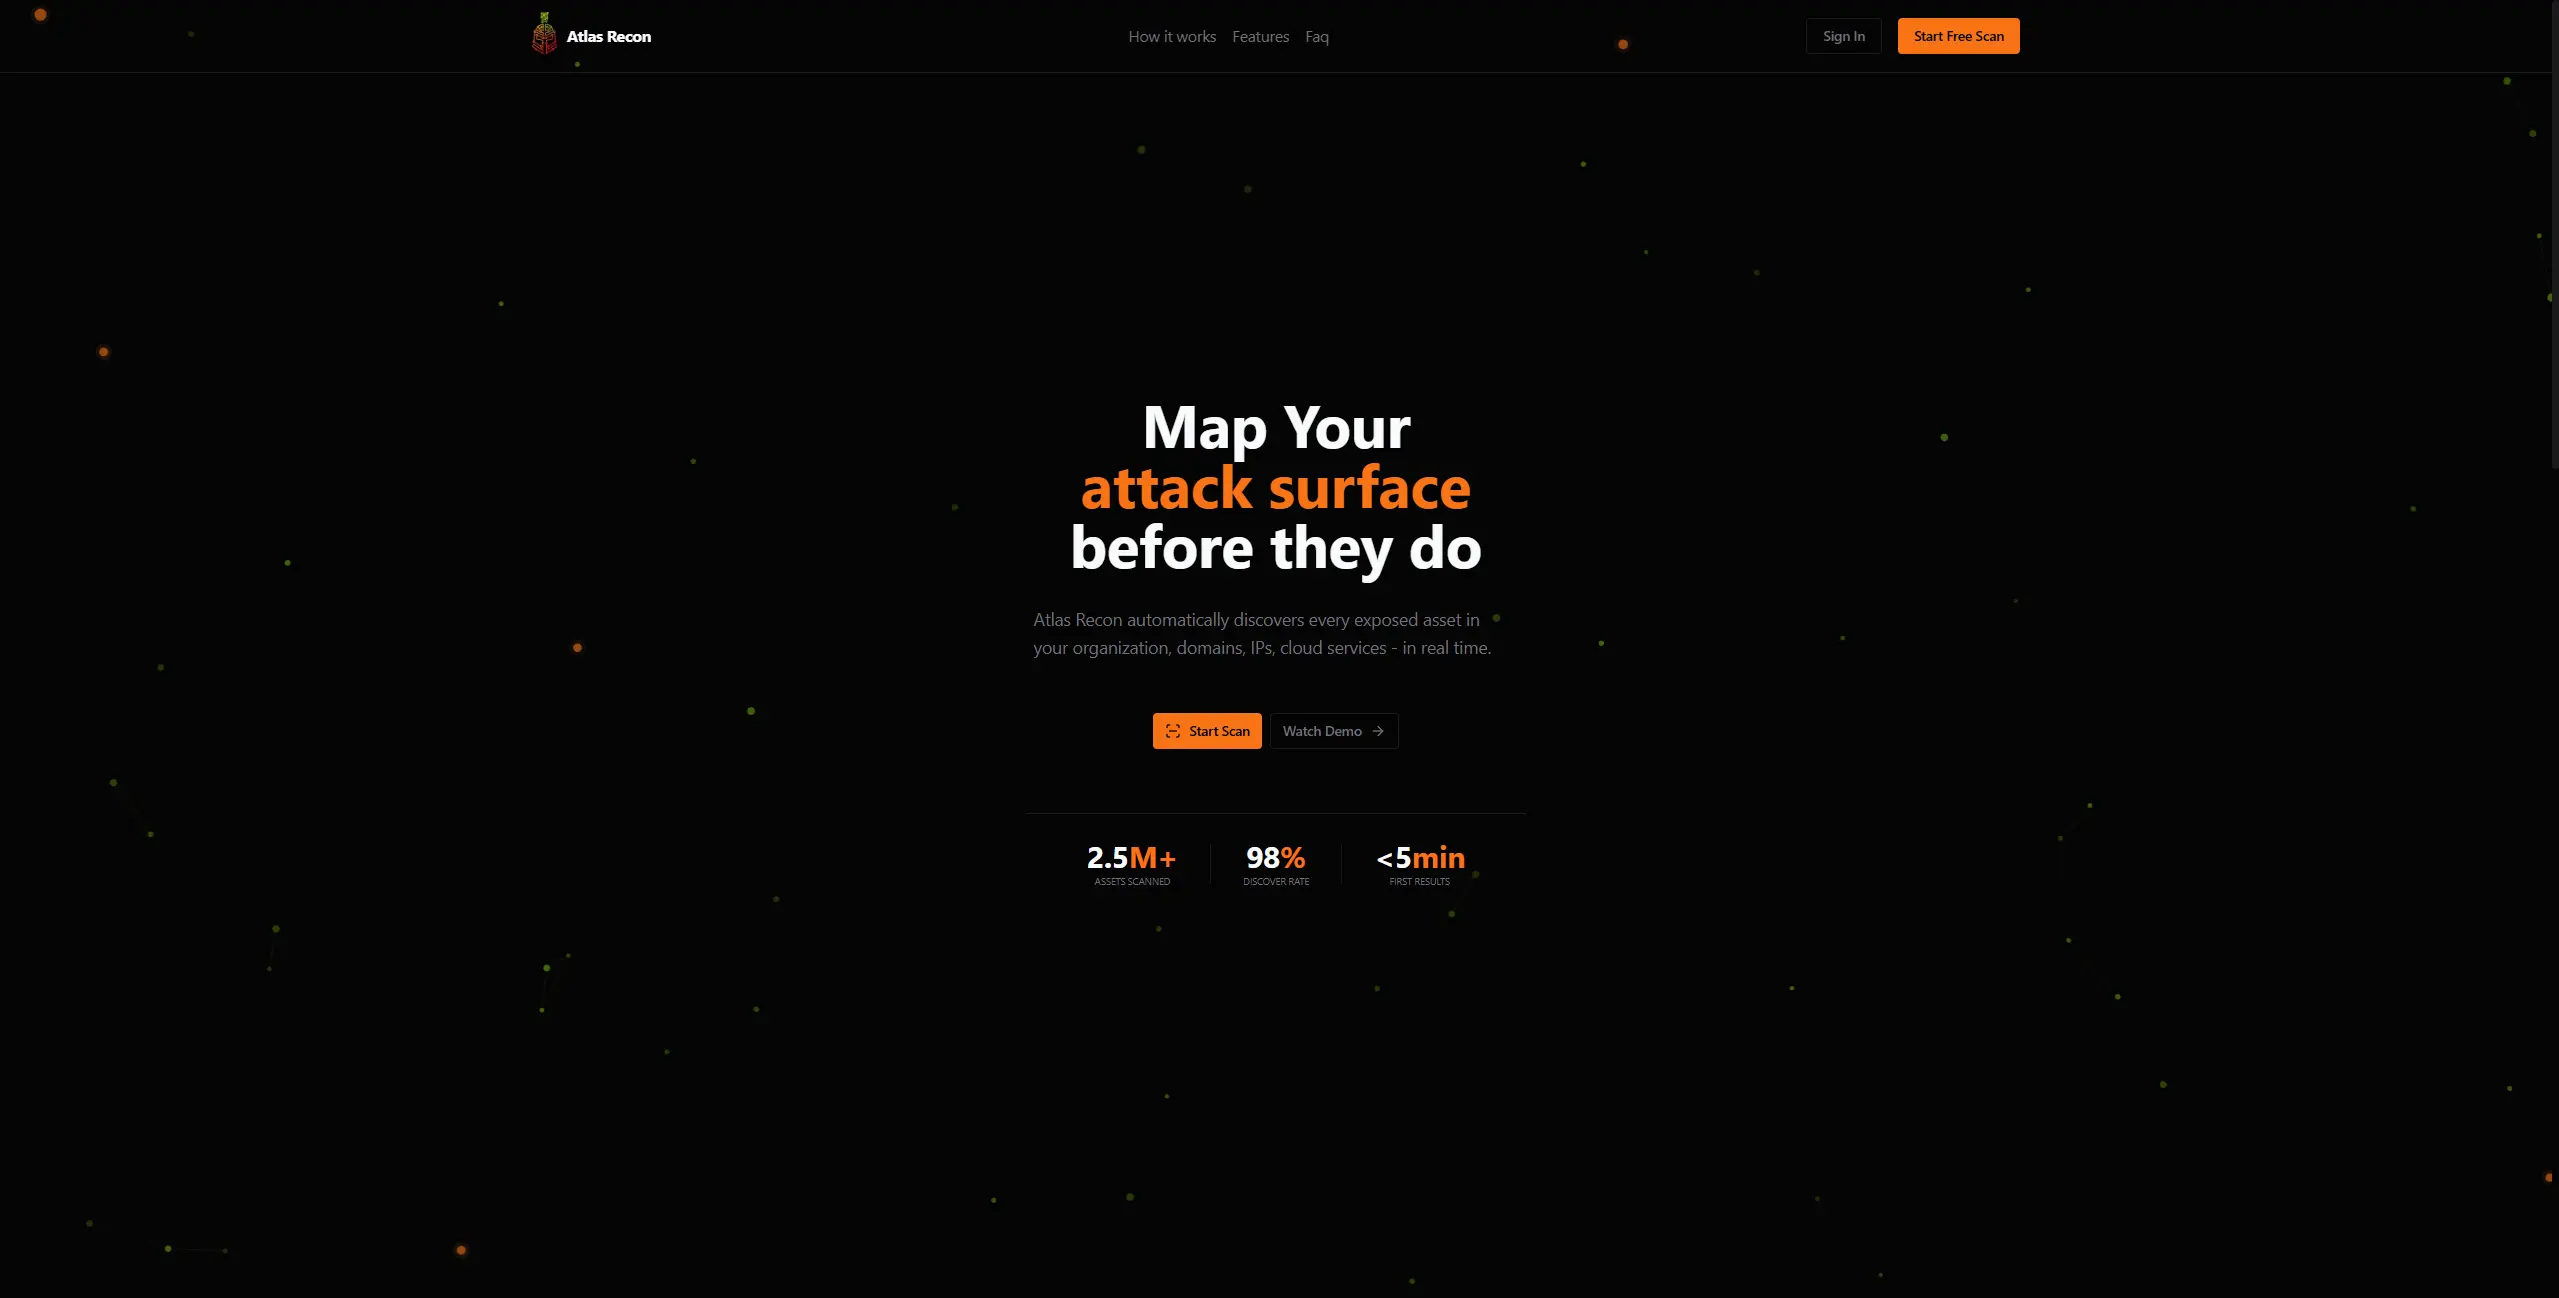
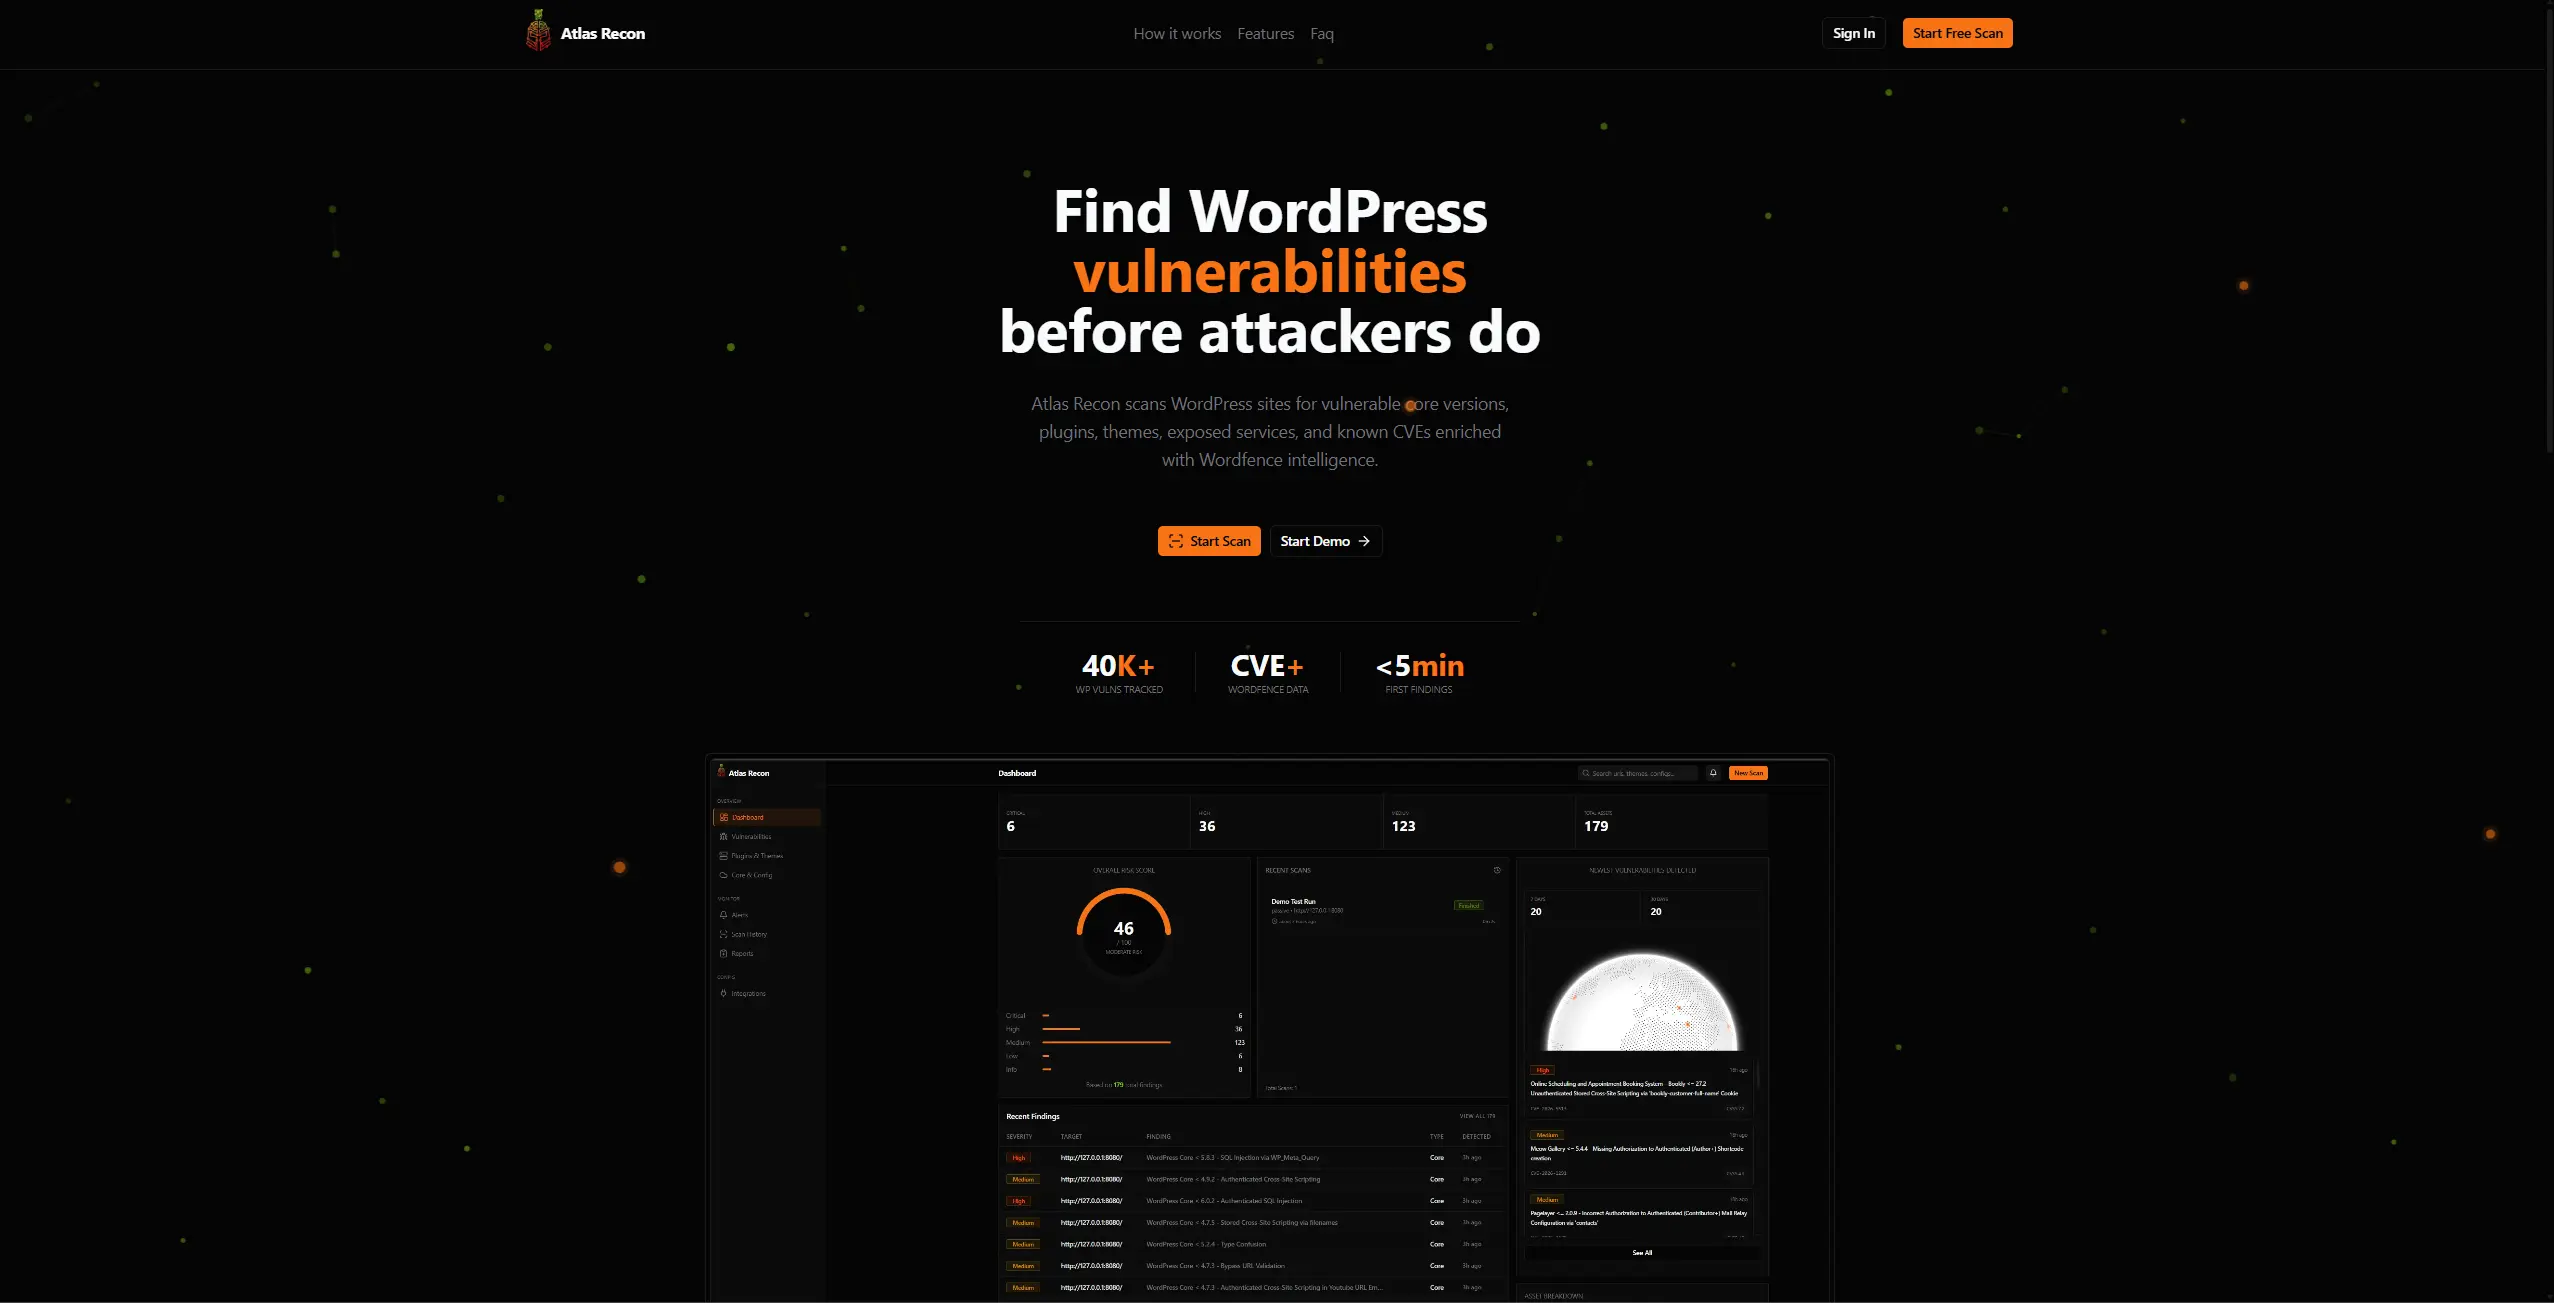
Added latest project and updated images

diff --git a/src/data/projects.ts b/src/data/projects.ts
@@ -3,16 +3,22 @@ export const projects = [
     id: 1,
     title: "Atlas Recon",
     description:
-      "Full-stack web application for reconnaissance scanning with in-depth findings dashboard. Features user authentication, data visualization, and responsive design.",
+      "Atlas Recons is a full-stack application that has async scan processing and a findings dashboard tailored for WordPress sites. Features a vulnerability vault that stores over 40K plus vulnerabilities from top researchers via WordFence.",
     image: "/images/atlas-recon.webp",
     tags: [
       "React",
+      "TypeScript",
       "Node.js",
       "Express",
       "Supabase",
       "Heroku",
+      "Better-Auth",
+      "Docker",
+      "Redis",
+      "Upstash",
       "Vite",
-      "TypeScript",
+      "ShadcnUI",
+      "TailwindCSS",
     ],
     link: "https://atlas-recon-d46c3d984818.herokuapp.com/",
     github: "https://github.com/Branden-Orefice/discovery-scan-app",
@@ -20,6 +26,27 @@ export const projects = [
   },
   {
     id: 2,
+    title: "OfferLoop",
+    description:
+      "Job application tracking platform that automatically builds your job search pipeline from application emails and provides AI-powered insights/helpful tips. Use AI to help prepare you for interviews and more.",
+    image: "/images/offer-loop.webp",
+    tags: [
+      "Next.js",
+      "React",
+      "TypeScript",
+      "Drizzle",
+      "Supabase",
+      "Better-Auth",
+      "ShadcnUI",
+      "TailwindCSS",
+      "Vercel",
+    ],
+    link: "https://offer-loop.vercel.app",
+    github: "https://github.com/Branden-Orefice/offer-loop",
+    featured: true,
+  },
+  {
+    id: 3,
     title: "brandenorefice.com (v1)",
     description:
       "First iteration of my portfolio site. Built with HTML, JavaScript, and CSS. Features dark-mode/light-mode, image hovering effect, and responsive design.",
@@ -30,7 +57,7 @@ export const projects = [
     featured: false,
   },
   {
-    id: 3,
+    id: 4,
     title: "Code Switcher",
     description:
       "Landing page for switching between code editors. Built with HTML, CSS, and JavaScript.",
@@ -41,7 +68,7 @@ export const projects = [
     featured: false,
   },
   {
-    id: 4,
+    id: 5,
     title: "Apple Cart",
     description:
       "A sleek and responsive Apple-inspired eCommerce storefront built to showcase clean UI design, reusable components, and dynamic cart functionality",